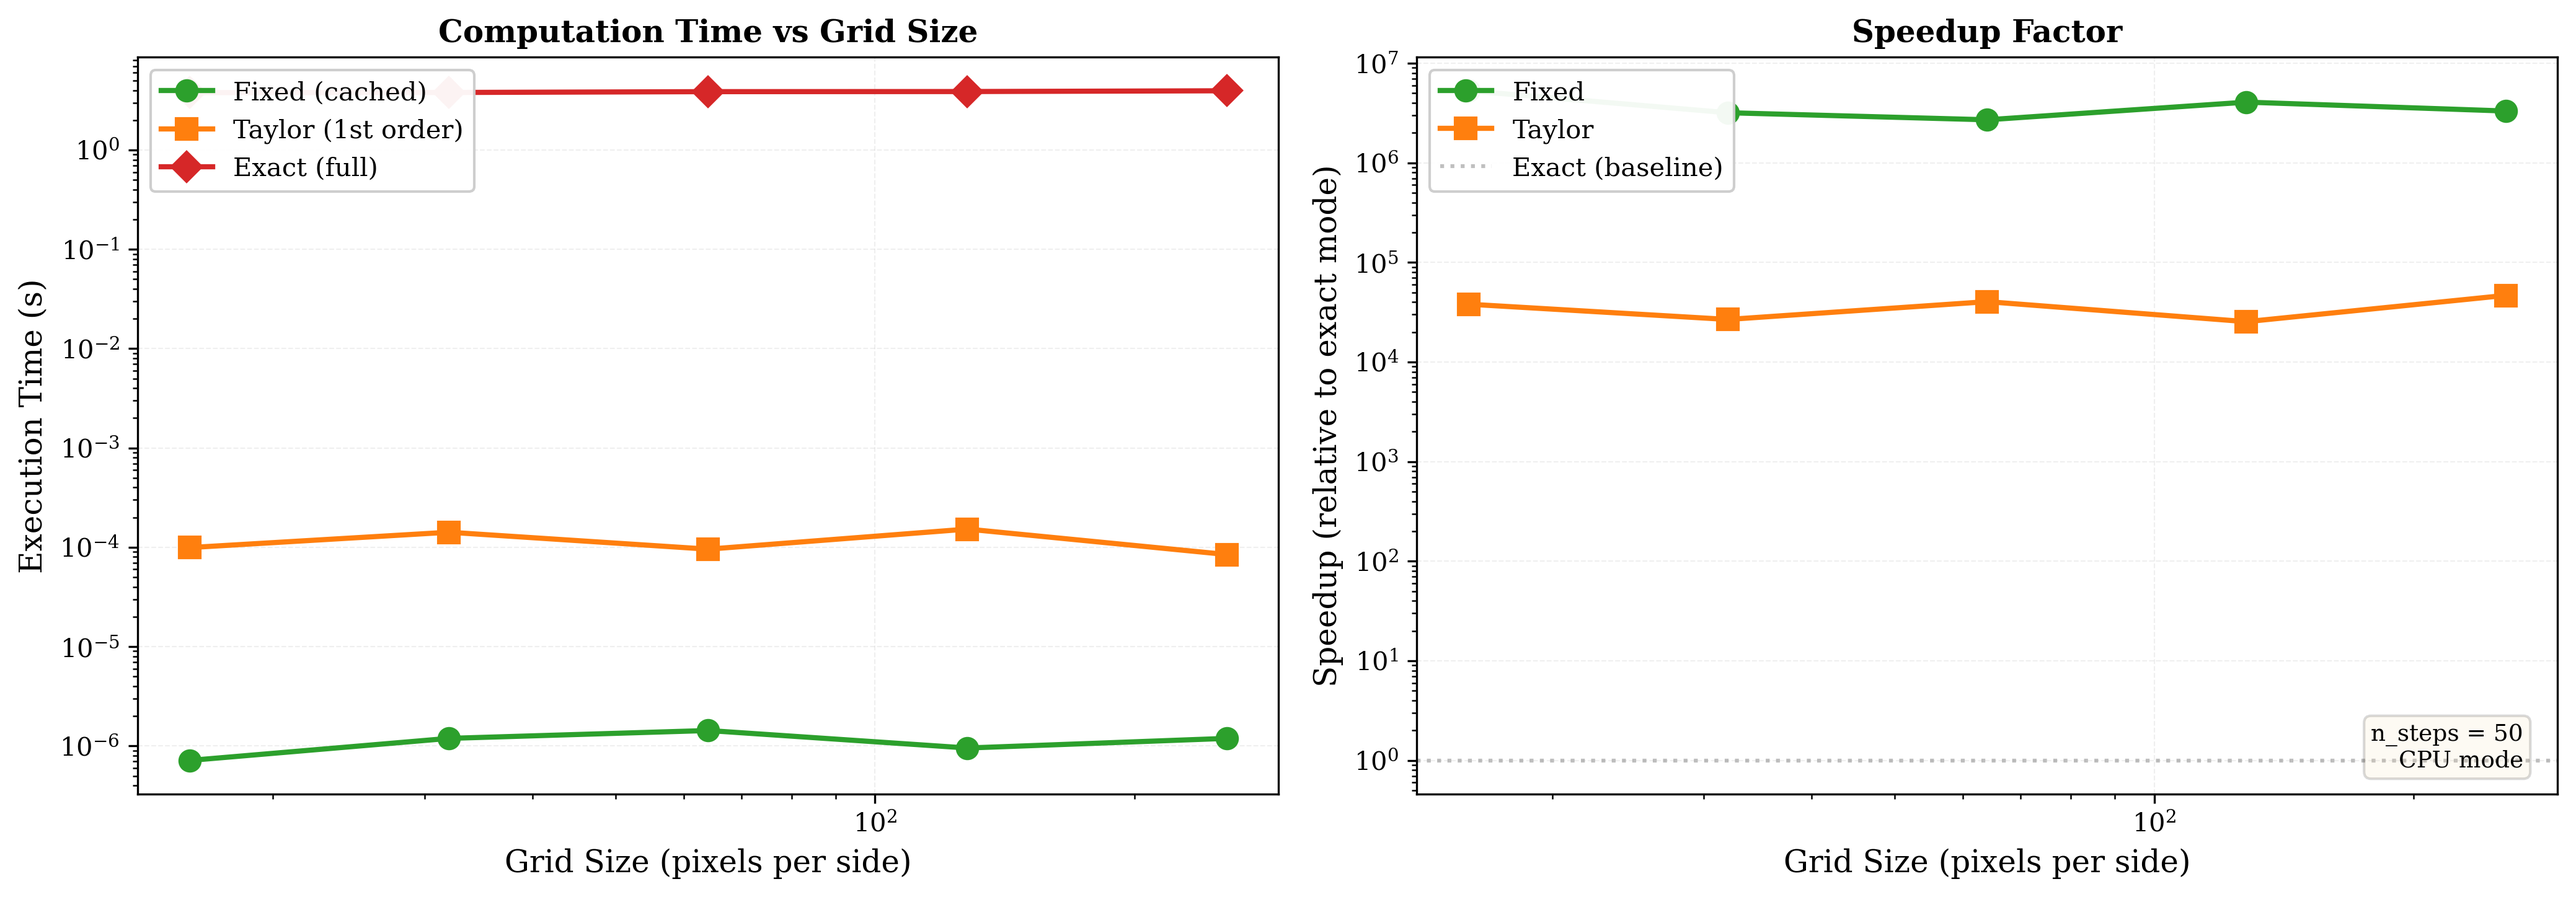
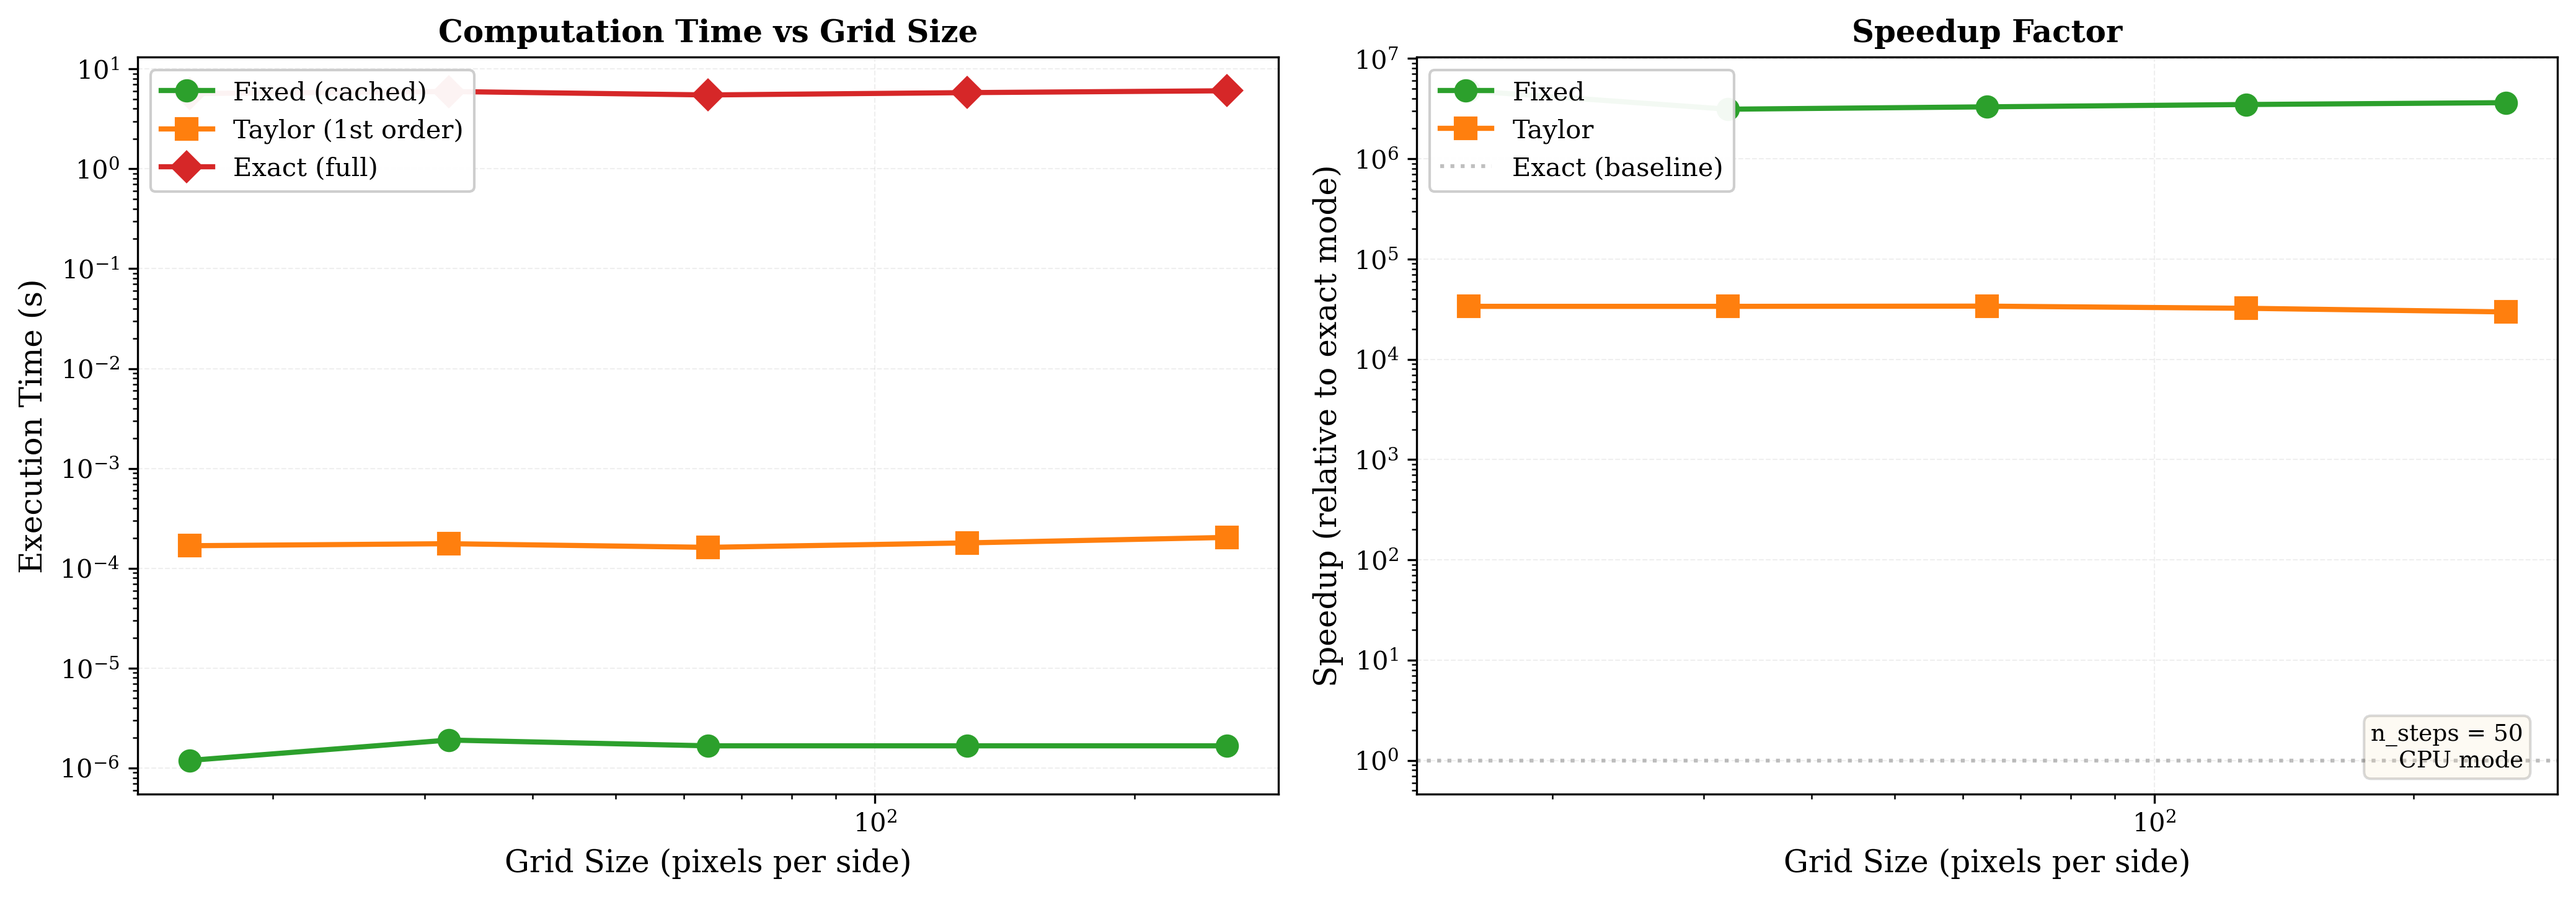
precision 64

diff --git a/scripts/benchmark_highz_cl_modes.py b/scripts/benchmark_highz_cl_modes.py
@@ -8,6 +8,7 @@ import os
 import time
 from pathlib import Path
 
+import jax
 import jax.numpy as jnp
 import jax_cosmo as jc
 import matplotlib.pyplot as plt
@@ -19,6 +20,7 @@ os.environ["JAX_PLATFORMS"] = "cpu"
 from desi_cmb_fli.bricks import get_cosmology
 from desi_cmb_fli.cmb_lensing import compute_cl_high_z, compute_theoretical_cl_kappa
 
+jax.config.update("jax_enable_x64", True)
 
 def benchmark_precision():
     """
